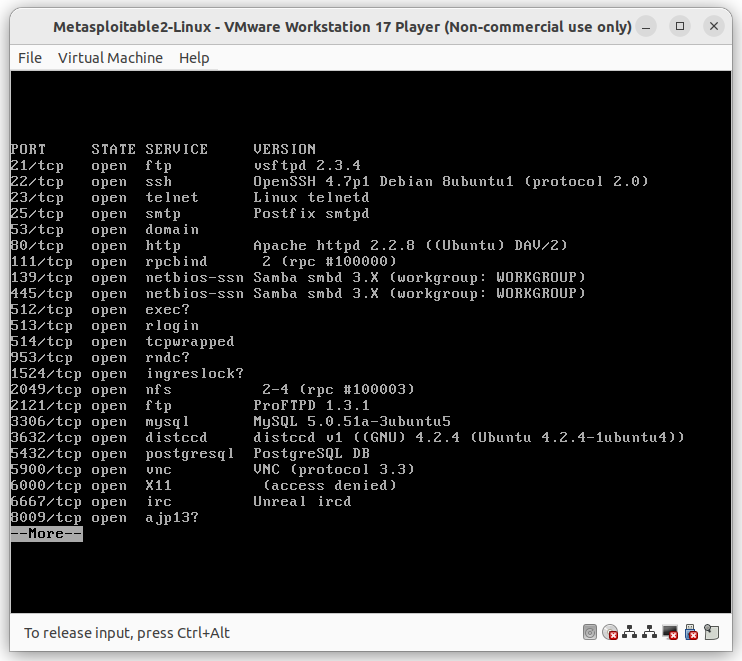
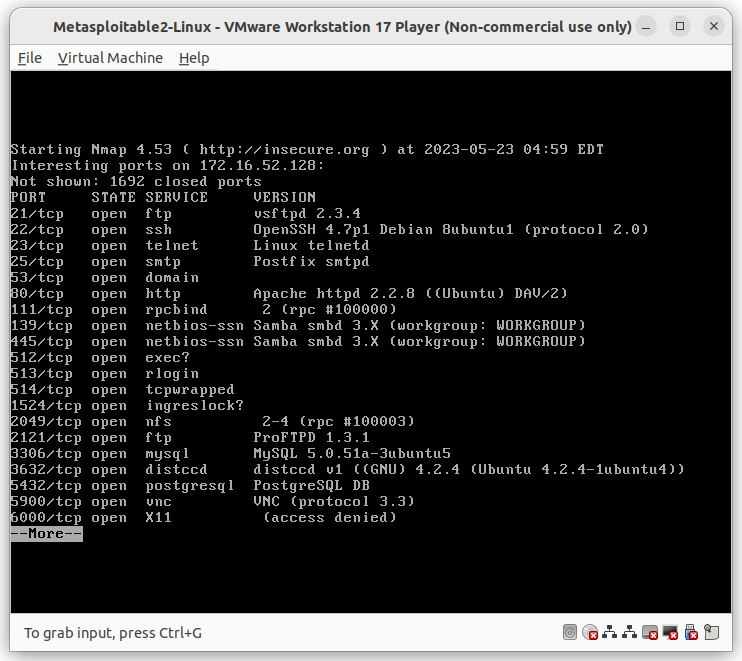
Task 1

diff --git a/README.md b/README.md
@@ -1,4 +1,4 @@
-# Домашнее задание к занятию 13.1. «`Уязвимости и атаки на информационные системы`» - `Станислав Барановский`
+# Домашнее задание к занятию 13.1 «`Уязвимости и атаки на информационные системы`» - `Станислав Барановский`
 
 ### Инструкция по выполнению домашнего задания
 
@@ -53,18 +53,26 @@ sudo ./getplayer-linux --required --eulas-agreed
 
 ### Сканируем виртуальную машину (из нутри)
 ```bash
-nmap -sXV localhost # инфомация по открытам TCP портам
-nmap -sUV localhost # инфомация по открытам UDP портам
+nmap -sSV localhost # инфомация по открытым TCP портам (TCP SYN)
+nmap -sTV localhost # инфомация по открытым TCP портам (TCP Connect)
+nmap -sAV localhost # инфомация по открытым TCP портам (TCP FIN)
+nmap -sUV localhost # инфомация по открытым UDP портам
+nmap -sV localhost # инфомация по всем открытым TCP портам
+nmap -A localhost # агресивный режим - инфомация по всем открытым TCP портам
 ```
 
 *Список доступных сетевых TCP служб (столбец service): 
-![nmap -sXV localhost](https://github.com/StanislavBaranovskii/13-1-hw/blob/main/img/13-1-1-1.png "nmap -sXV localhost")
-*Список доступных сетевых UDP служб (столбец service)): 
+![nmap -sV localhost](https://github.com/StanislavBaranovskii/13-1-hw/blob/main/img/13-1-1-1.png "nmap -sV localhost")
+*Список доступных сетевых UDP служб (столбец service): 
 ![nmap -sUV localhost](https://github.com/StanislavBaranovskii/13-1-hw/blob/main/img/13-1-1-2.png "nmap -sUV localhost")
 
-### Уязвимости
-- [OpenSSH < 7.7 - User Enumeration (2)](https://www.exploit-db.com/exploits/45939)
-- [PuTTY < 0.68 - 'ssh_agent_channel_data' Integer Overflow Heap Corruption](https://www.exploit-db.com/exploits/42137)
+### Список нескольких уязвимостей
+- [vsftpd 2.3.4 - Backdoor Command Execution](https://www.exploit-db.com/exploits/49757)
+- [TelnetD encrypt_keyid - Function Pointer Overwrite](https://www.exploit-db.com/exploits/18280)
+- [ProFTPd IAC 1.3.x - Remote Command Execution](https://www.exploit-db.com/exploits/15449)
+- [MySQL 5.0.x - IF Query Handling Remote Denial of Service](https://www.exploit-db.com/exploits/30020)
+- [MySQL 5.0.x - Single Row SubSelect Remote Denial of Service](https://www.exploit-db.com/exploits/29724)
+
 
 ---
 ## Задание 2
